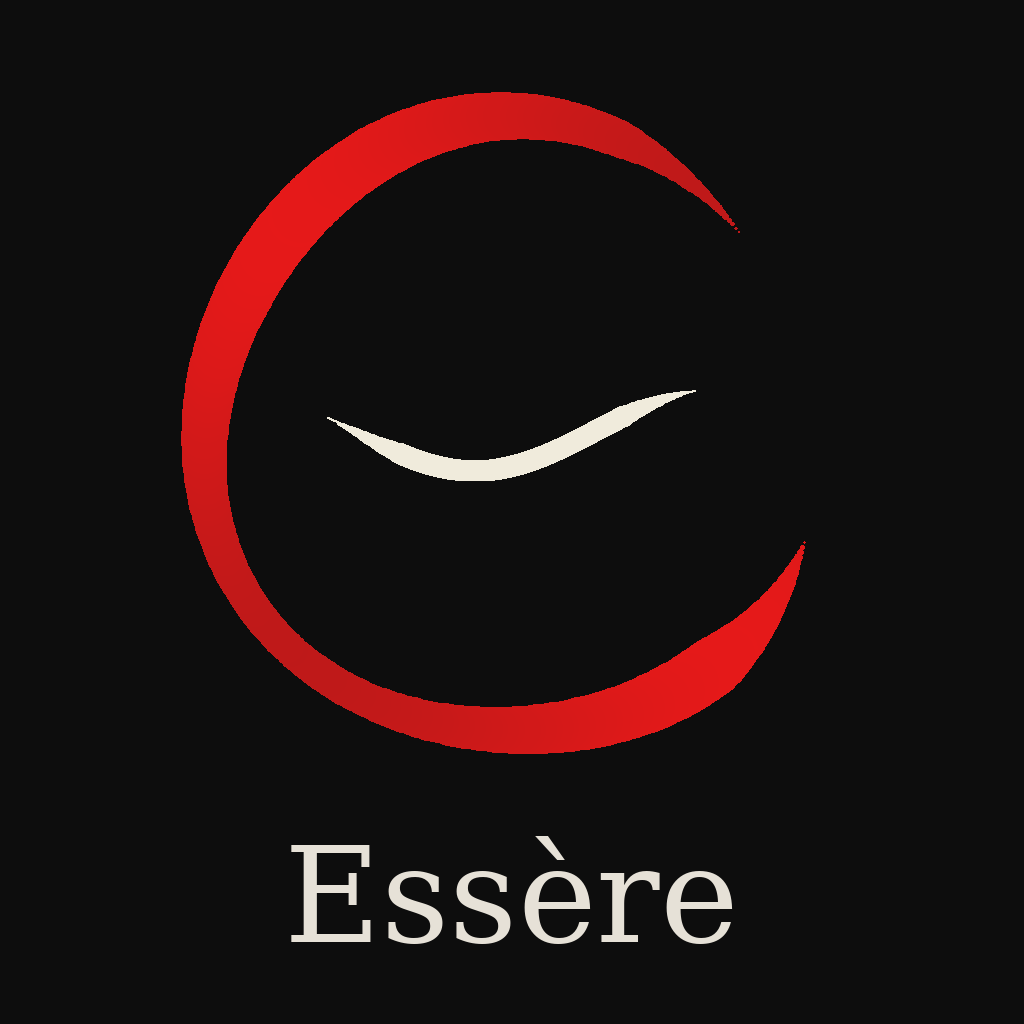
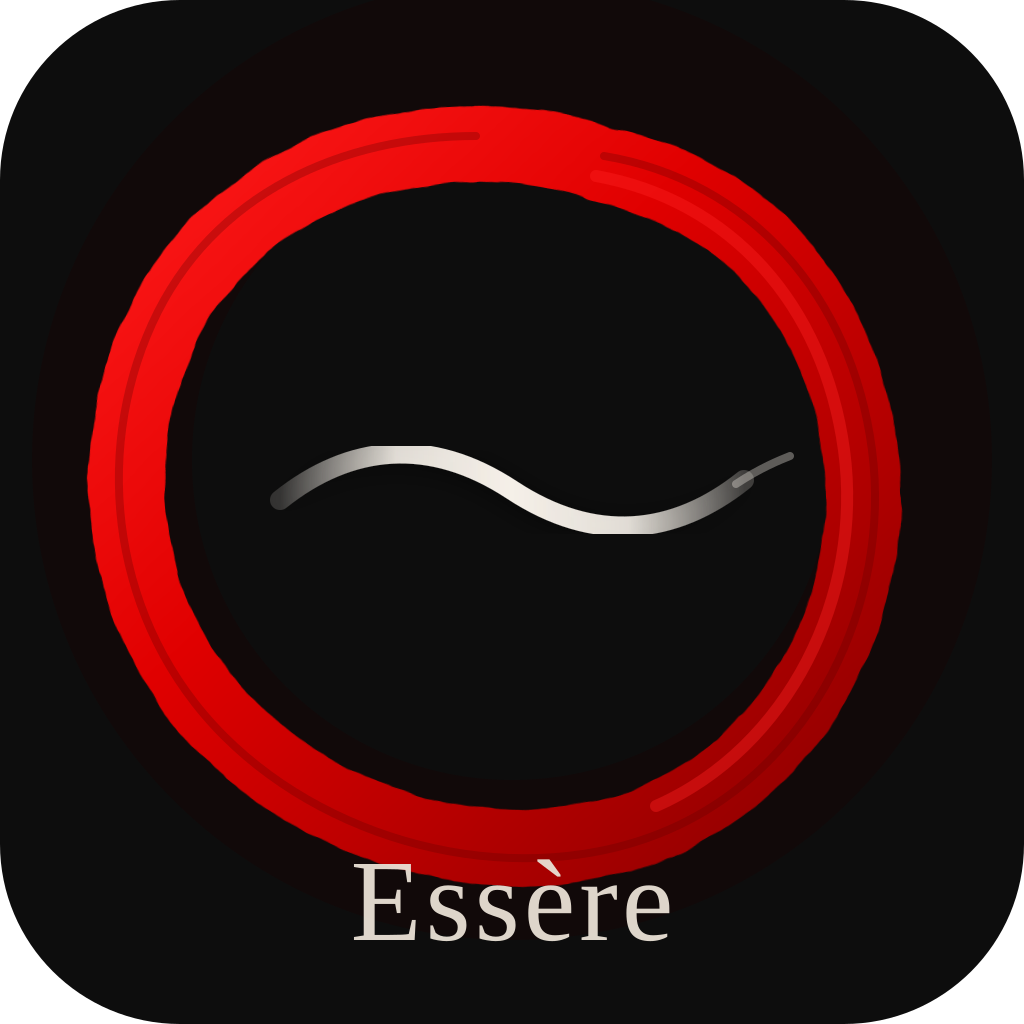
feat: rigenera icone Essère e automatizza PWA meta tags nel build web
- Generato icone 192, 512 e 1024px con ensō rosso e onda bianca
- Aggiunto postbuild-web.js per iniettare meta tag PWA dopo ogni build
- Aggiunto generate-icons.js per rigenerare le icone da SVG

https://claude.ai/code/session_01XfUGdD5RPc3Ny6WagX3wPh

diff --git a/fitness-app/generate-icons.js b/fitness-app/generate-icons.js
@@ -1,0 +1,104 @@
+const sharp = require('sharp');
+
+const sizes = [
+  { name: 'web/icon-192.png', size: 192 },
+  { name: 'web/icon-512.png', size: 512 },
+  { name: 'src/assets/icon.png', size: 1024 },
+  { name: 'src/assets/adaptive-icon.png', size: 1024 },
+];
+
+// SVG icon matching the Essère branding: red ensō circle, white wave, dark bg, rounded corners
+function generateSVG(size) {
+  const r = size * 0.12; // corner radius
+  return `<svg xmlns="http://www.w3.org/2000/svg" width="${size}" height="${size}" viewBox="0 0 512 512">
+  <defs>
+    <clipPath id="roundedClip">
+      <rect width="512" height="512" rx="90" ry="90"/>
+    </clipPath>
+    <linearGradient id="ensoGrad" x1="0%" y1="0%" x2="100%" y2="100%">
+      <stop offset="0%" stop-color="#FF1A1A"/>
+      <stop offset="40%" stop-color="#E00000"/>
+      <stop offset="100%" stop-color="#8B0000"/>
+    </linearGradient>
+    <linearGradient id="waveGrad" x1="0%" y1="0%" x2="100%" y2="0%">
+      <stop offset="0%" stop-color="#F5F0E8" stop-opacity="0.15"/>
+      <stop offset="25%" stop-color="#F5F0E8" stop-opacity="0.9"/>
+      <stop offset="50%" stop-color="#F5F0E8" stop-opacity="1"/>
+      <stop offset="75%" stop-color="#F5F0E8" stop-opacity="0.9"/>
+      <stop offset="100%" stop-color="#F5F0E8" stop-opacity="0.2"/>
+    </linearGradient>
+    <filter id="shadow" x="-10%" y="-10%" width="120%" height="120%">
+      <feDropShadow dx="0" dy="2" stdDeviation="6" flood-color="#000" flood-opacity="0.5"/>
+    </filter>
+    <filter id="brushTexture">
+      <feTurbulence type="fractalNoise" baseFrequency="0.04" numOctaves="4" seed="2" result="noise"/>
+      <feDisplacementMap in="SourceGraphic" in2="noise" scale="3" xChannelSelector="R" yChannelSelector="G"/>
+    </filter>
+  </defs>
+  <g clip-path="url(#roundedClip)">
+    <!-- Dark background -->
+    <rect width="512" height="512" fill="#0D0D0D"/>
+
+    <!-- Subtle radial glow -->
+    <circle cx="256" cy="230" r="200" fill="none" stroke="#1a0000" stroke-width="80" opacity="0.3"/>
+
+    <!-- Ensō circle - main brushstroke -->
+    <path d="
+      M 300 82
+      C 370 95, 420 150, 430 225
+      C 440 300, 400 380, 330 410
+      C 260 440, 170 420, 115 365
+      C 60 310, 50 230, 80 165
+      C 110 100, 175 72, 240 72
+      C 260 72, 280 75, 295 80
+    " stroke="url(#ensoGrad)" stroke-width="38" stroke-linecap="round" fill="none" filter="url(#brushTexture)"/>
+
+    <!-- Ensō inner edge highlight -->
+    <path d="
+      M 298 88
+      C 365 100, 412 152, 422 225
+      C 432 298, 394 374, 328 403
+    " stroke="#FF2020" stroke-width="6" stroke-linecap="round" fill="none" opacity="0.4"/>
+
+    <!-- Ensō outer edge shadow -->
+    <path d="
+      M 302 78
+      C 375 90, 426 148, 436 225
+      C 446 302, 406 384, 334 415
+      C 262 446, 168 424, 112 368
+      C 56 312, 46 228, 76 162
+      C 106 96, 172 68, 238 68
+    " stroke="#600000" stroke-width="4" stroke-linecap="round" fill="none" opacity="0.3"/>
+
+    <!-- White flowing wave in center -->
+    <path d="
+      M 140 250
+      C 175 222, 215 218, 256 245
+      C 297 272, 337 268, 372 240
+    " stroke="url(#waveGrad)" stroke-width="10" stroke-linecap="round" fill="none" filter="url(#shadow)"/>
+
+    <!-- Wave tip fade -->
+    <path d="
+      M 368 242
+      C 380 234, 390 230, 395 228
+    " stroke="#F5F0E8" stroke-width="4" stroke-linecap="round" fill="none" opacity="0.35"/>
+
+    <!-- "Essère" text -->
+    <text x="256" y="470" text-anchor="middle" font-family="Georgia, 'Times New Roman', serif" font-size="58" fill="#E8E0D4" letter-spacing="2" opacity="0.95">Essère</text>
+  </g>
+</svg>`;
+}
+
+async function generate() {
+  for (const { name, size } of sizes) {
+    const svg = generateSVG(size);
+    await sharp(Buffer.from(svg))
+      .resize(size, size)
+      .png()
+      .toFile(name);
+    console.log(`✓ ${name} (${size}x${size})`);
+  }
+  console.log('\nIcone generate!');
+}
+
+generate().catch(console.error);

diff --git a/fitness-app/postbuild-web.js b/fitness-app/postbuild-web.js
@@ -1,0 +1,32 @@
+// Inject PWA meta tags into dist/index.html after Expo build
+const fs = require('fs');
+const path = require('path');
+
+const indexPath = path.join(__dirname, 'dist', 'index.html');
+let html = fs.readFileSync(indexPath, 'utf8');
+
+const pwaMeta = `
+    <!-- PWA Meta -->
+    <meta name="theme-color" content="#0D0D0D" />
+    <meta name="apple-mobile-web-app-capable" content="yes" />
+    <meta name="apple-mobile-web-app-status-bar-style" content="black-translucent" />
+    <meta name="apple-mobile-web-app-title" content="ESSĒRE" />
+    <link rel="apple-touch-icon" href="/icon-192.png" />
+    <link rel="manifest" href="/manifest.json" />`;
+
+// Add PWA meta after <title>
+if (!html.includes('apple-mobile-web-app-capable')) {
+  html = html.replace('</title>', '</title>' + pwaMeta);
+}
+
+// Fix lang to Italian
+html = html.replace('lang="en"', 'lang="it"');
+
+// Fix viewport for iOS
+html = html.replace(
+  'width=device-width, initial-scale=1, shrink-to-fit=no',
+  'width=device-width, initial-scale=1.0, viewport-fit=cover, user-scalable=no'
+);
+
+fs.writeFileSync(indexPath, html);
+console.log('✓ PWA meta tags injected into dist/index.html');
